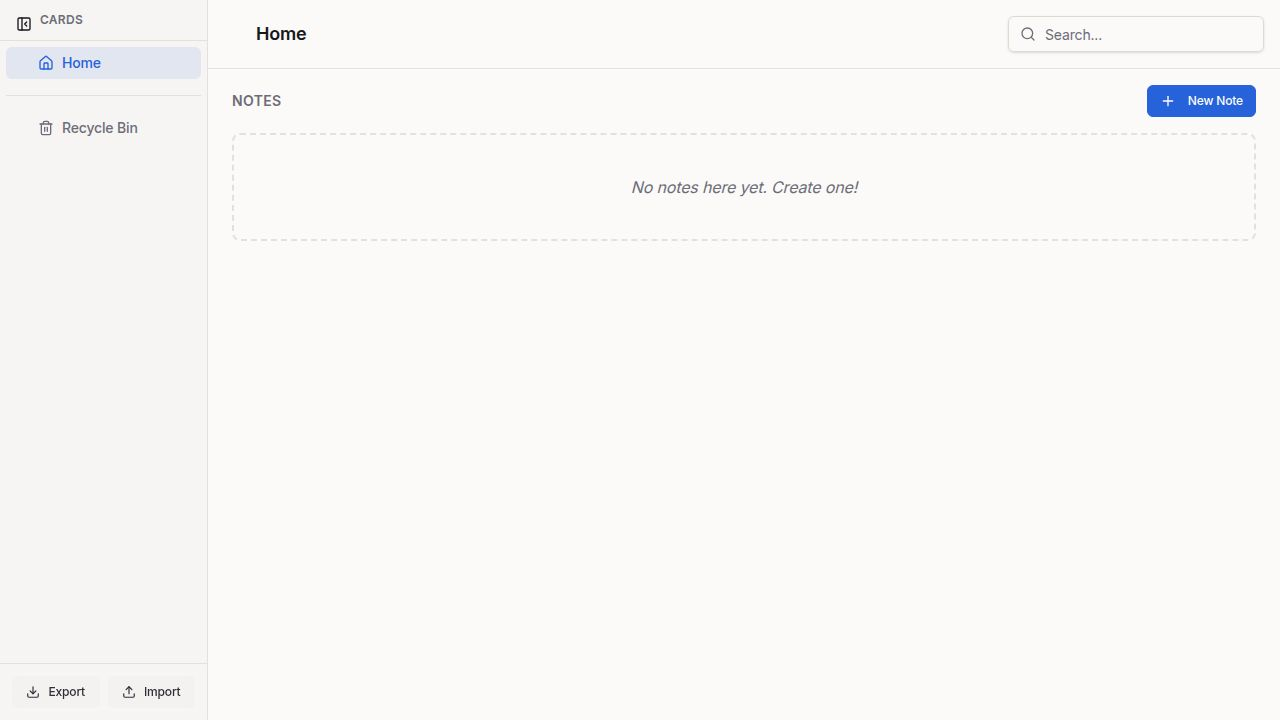
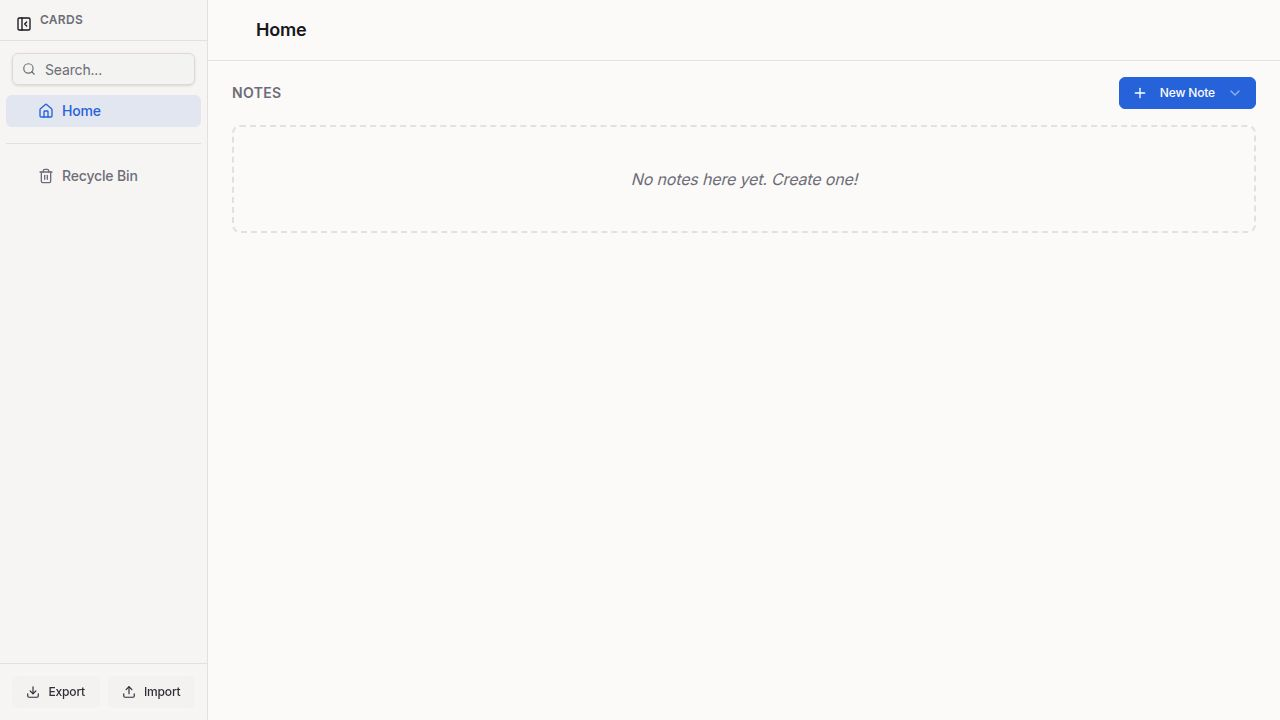
Add new note options to create different types of notes
Update the "New Note" button to be a dropdown with options for creating a standard note, a note with a checkbox, a note with a link, or a note with an image.

Replit-Commit-Author: Agent
Replit-Commit-Session-Id: e70e989a-6d95-4f55-874c-6876978a4e17
Replit-Commit-Checkpoint-Type: full_checkpoint
Replit-Commit-Event-Id: 0aeeb9f4-a46a-458d-8ff1-683e550b8a30
Replit-Commit-Screenshot-Url: https://storage.googleapis.com/screenshot-production-us-central1/ed1b0a0d-8da0-485f-8335-bf326b362683/e70e989a-6d95-4f55-874c-6876978a4e17/ETUXIde
Replit-Helium-Checkpoint-Created: true

diff --git a/client/src/components/WorkspacePanel.tsx b/client/src/components/WorkspacePanel.tsx
@@ -25,7 +25,7 @@ interface WorkspacePanelProps {
   allCards: Card[]; // used for search/move picker
   isRecycleBin: boolean;
   onNavigateCard: (id: string | null) => void;
-  onAddCard: (parentId: string | null) => void;
+  onAddCard: (parentId: string | null) => string;
   onUpdateCard: (id: string, updates: Partial<Card>) => void;
   onUpdateCardBlocks: (id: string, blocks: ContentBlock[]) => void;
   onMoveCard: (id: string, newParentId: string | null) => void;
@@ -1042,14 +1042,67 @@ export function WorkspacePanel({
             <h3 className="text-sm font-semibold text-muted-foreground uppercase tracking-wide">
               {currentCard ? "Sub-notes" : "Notes"}
             </h3>
-            <Button 
-              size="sm" 
-              onClick={() => onAddCard(currentCard?.id || null)}
-              className={isRecycleBin ? "hidden" : ""}
-            >
-              <Plus className="w-4 h-4 mr-1" />
-              New Note
-            </Button>
+            
+            <DropdownMenu>
+              <DropdownMenuTrigger asChild>
+                <Button 
+                  size="sm" 
+                  className={isRecycleBin ? "hidden" : ""}
+                >
+                  <Plus className="w-4 h-4 mr-1" />
+                  New Note
+                  <ChevronDown className="w-3 h-3 ml-1 opacity-50" />
+                </Button>
+              </DropdownMenuTrigger>
+              <DropdownMenuContent align="end">
+                <DropdownMenuItem onClick={() => onAddCard(currentCard?.id || null)}>
+                  <FileText className="w-4 h-4 mr-2" />
+                  Note
+                </DropdownMenuItem>
+                <DropdownMenuItem onClick={() => {
+                   const id = onAddCard(currentCard?.id || null);
+                   // @ts-ignore
+                   const block: CheckboxBlock = { id: generateId(), type: 'checkbox', checked: false };
+                   onUpdateCardBlocks(id, [block]);
+                }}>
+                  <CheckSquare className="w-4 h-4 mr-2" />
+                  Checkbox
+                </DropdownMenuItem>
+                <DropdownMenuItem onClick={() => {
+                   const id = onAddCard(currentCard?.id || null);
+                   // @ts-ignore
+                   const block: LinkBlock = { id: generateId(), type: 'link', url: '' };
+                   onUpdateCardBlocks(id, [block]);
+                }}>
+                  <LinkIcon className="w-4 h-4 mr-2" />
+                  Link
+                </DropdownMenuItem>
+                <DropdownMenuItem onClick={() => {
+                   // Trigger file input for new note
+                   const input = document.createElement('input');
+                   input.type = 'file';
+                   input.accept = 'image/*';
+                   input.onchange = (e) => {
+                     const file = (e.target as HTMLInputElement).files?.[0];
+                     if (file) {
+                       const reader = new FileReader();
+                       reader.onload = (event) => {
+                         const dataUrl = event.target?.result as string;
+                         const id = onAddCard(currentCard?.id || null);
+                         // @ts-ignore
+                         const block: ImageBlock = { id: generateId(), type: 'image', dataUrl, width: 100 };
+                         onUpdateCardBlocks(id, [block]);
+                       };
+                       reader.readAsDataURL(file);
+                     }
+                   };
+                   input.click();
+                }}>
+                  <Image className="w-4 h-4 mr-2" />
+                  Image
+                </DropdownMenuItem>
+              </DropdownMenuContent>
+            </DropdownMenu>
           </div>
 
           {childrenCards.length === 0 ? (

diff --git a/client/src/pages/NotesApp.tsx b/client/src/pages/NotesApp.tsx
@@ -67,8 +67,7 @@ export default function NotesApp() {
 
   const handleAddCard = useCallback((parentId: string | null) => {
     const newId = store.addCard('', parentId);
-    // Optionally auto-navigate?
-    // setCurrentCardId(newId);
+    return newId;
   }, [store.addCard]);
 
   const handleRenameCard = useCallback((id: string, title: string) => {
